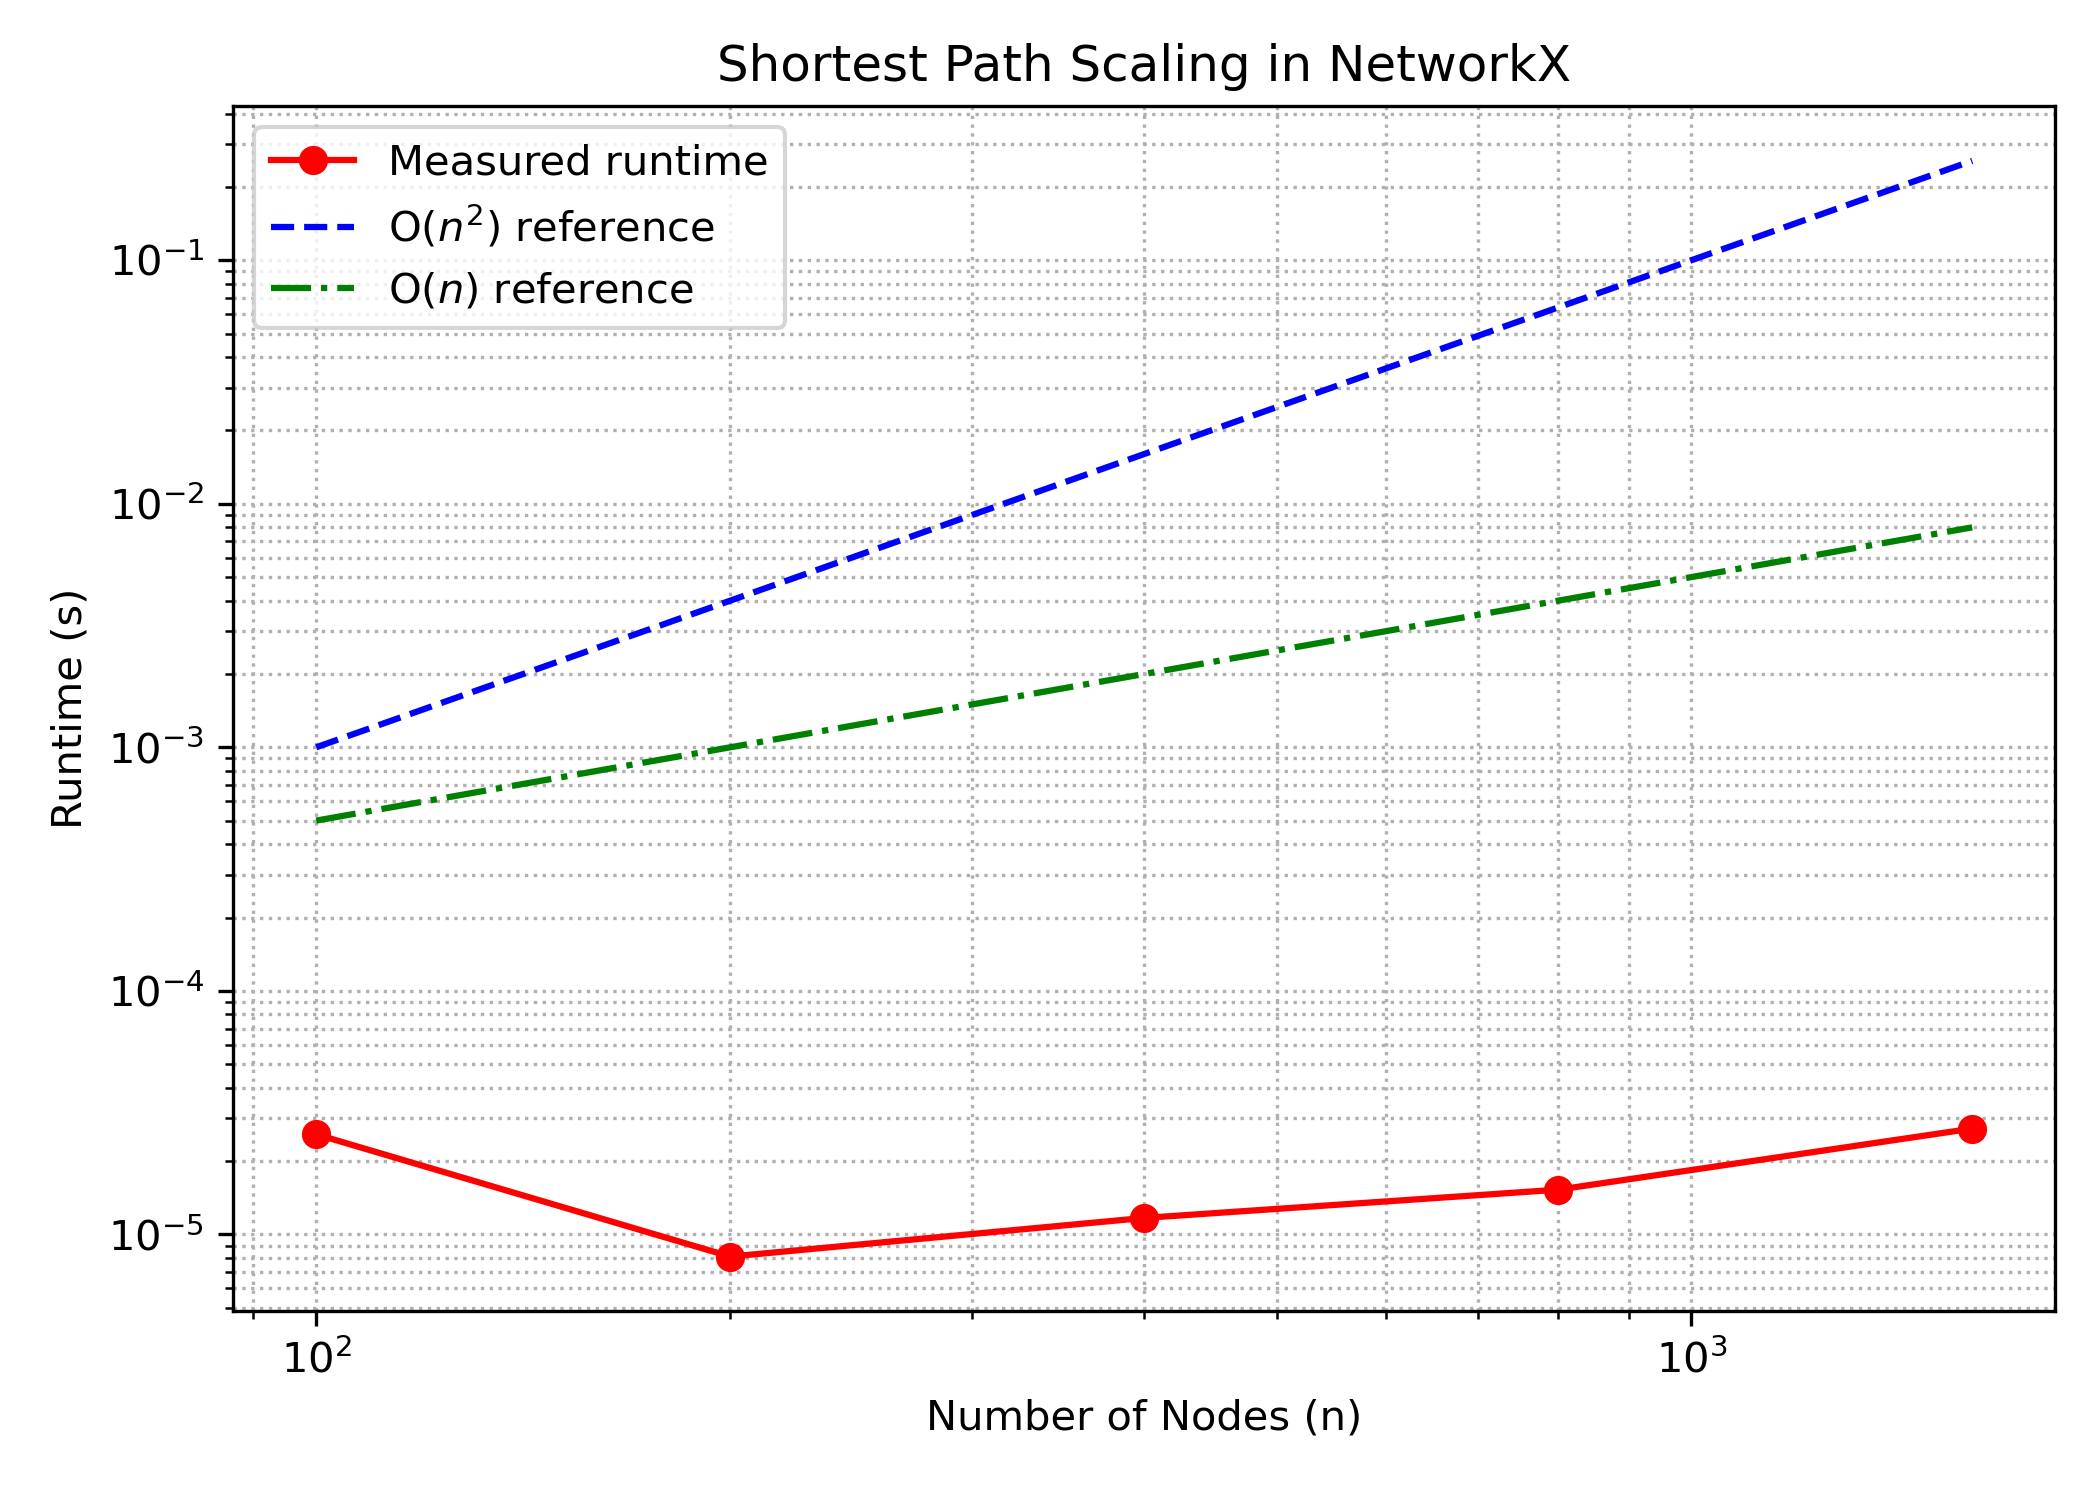
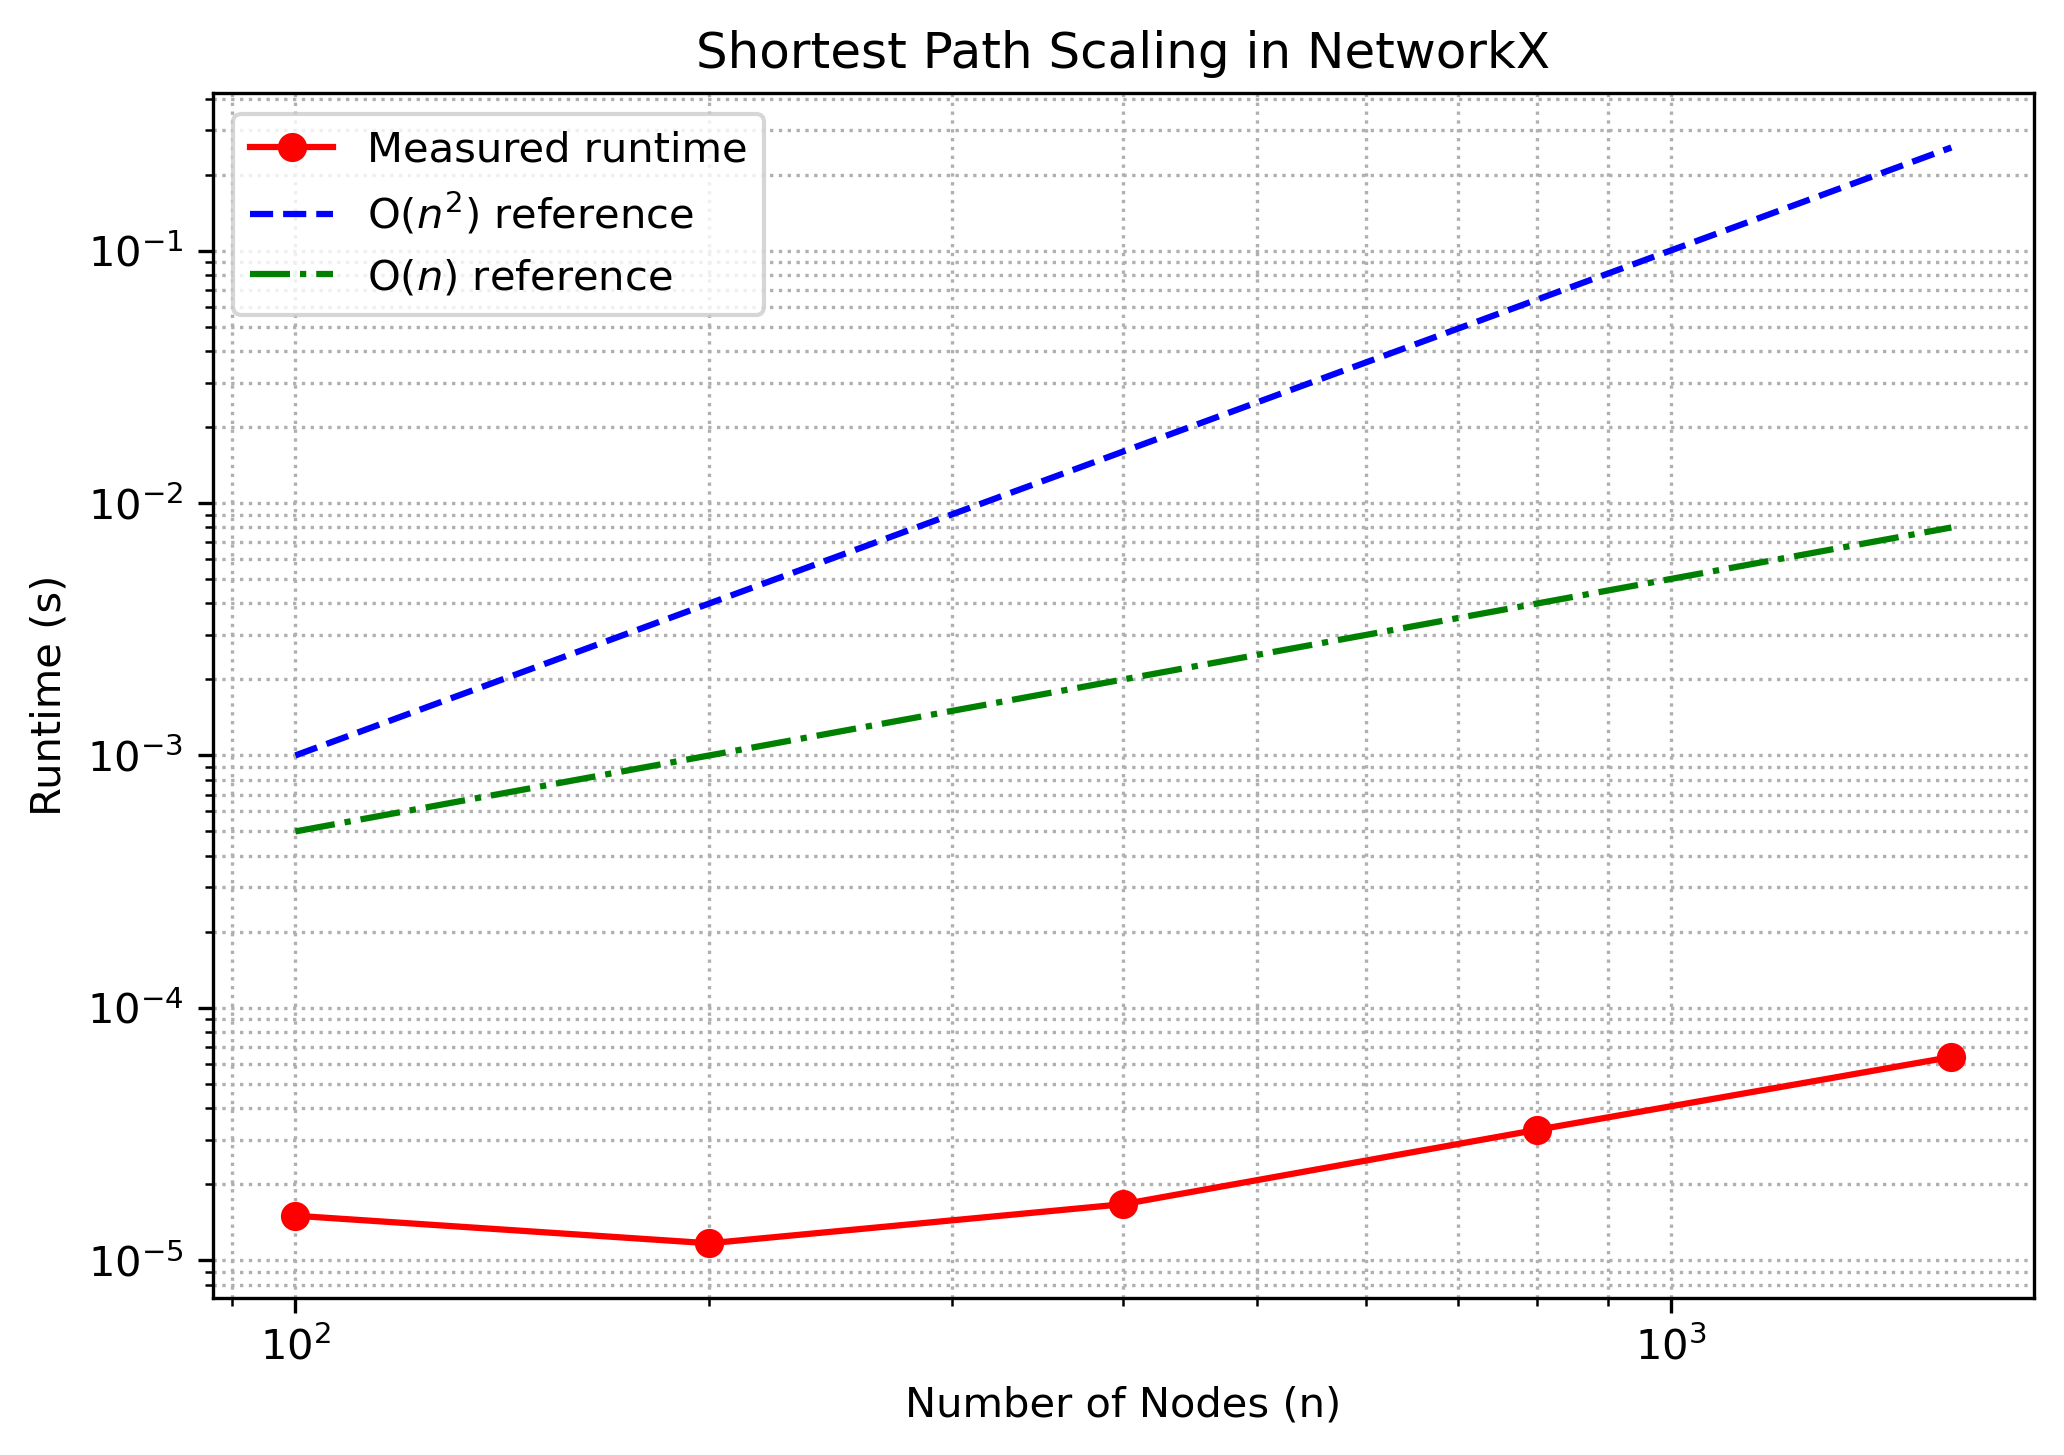
update networkx scaling demo

Changed region(s): [[0.0, 0.0, 0.9922, 0.9278], [0.4341, 0.9278, 0.6512, 0.9897]]

diff --git a/Python/graph/network_scaling_demo.py b/Python/graph/network_scaling_demo.py
@@ -2,10 +2,11 @@ import networkx as nx
 import time
 import numpy as np
 import matplotlib.pyplot as plt
+import os
 
-# ---------------------------
-# 1. Generate graphs using built-in generators
-# ---------------------------
+# ------------------------------------------
+# 1. Graph generator
+# ------------------------------------------
 def generate_graph(n, p=0.05, generator="erdos_renyi"):
     """Return a NetworkX graph with n nodes using the chosen generator."""
     if generator == "erdos_renyi":
@@ -20,17 +21,22 @@ def generate_graph(n, p=0.05, generator="erdos_renyi"):
     else:
         raise ValueError(f"Unknown generator type: {generator}")
 
-# ---------------------------
-# 2. Benchmark function
-# ---------------------------
-def measure_shortest_path_scaling(generator="erdos_renyi", p=0.05, max_nodes=2000):
+# ------------------------------------------
+# 2. Benchmarking
+# ------------------------------------------
+def measure_shortest_path_scaling(generator="erdos_renyi", p=0.05):
     """Measure time to compute shortest path as n grows."""
     sizes = [100, 200, 400, 800, 1600]
     times = []
+    sample_graphs = []   # keep small graphs for visualization
 
     for n in sizes:
         G = generate_graph(n, p, generator)
-        source, target = 0, n - 1 if generator != "grid" else (0, (int(np.sqrt(n)) - 1, int(np.sqrt(n)) - 1))
+        if n <= 400:
+            sample_graphs.append((n, G))
+
+        source = 0
+        target = n - 1 if generator != "grid" else (0, (int(np.sqrt(n)) - 1, int(np.sqrt(n)) - 1))
 
         start = time.time()
         try:
@@ -43,31 +49,66 @@ def measure_shortest_path_scaling(generator="erdos_renyi", p=0.05, max_nodes=200
         times.append(t)
         print(f"n={n:4d}  time={t:8.6f} s")
 
-    return np.array(sizes), np.array(times)
+    return np.array(sizes), np.array(times), sample_graphs
 
-# ---------------------------
-# 3. Plot scaling
-# ---------------------------
+# ------------------------------------------
+# 3. Plot scaling and save PNG
+# ------------------------------------------
 def plot_scaling(sizes, times):
-    """Plot runtime scaling vs. theoretical O(n^2)."""
-    plt.figure(figsize=(7, 5))
-    plt.loglog(sizes, times, 'ro-', label='Measured runtime')
-    plt.loglog(sizes, 1e-7 * sizes**2, 'b--', label=r'O($n^2$) reference')
-    plt.loglog(sizes, 5e-6 * sizes, 'g-.', label=r'O($n$) reference')
-    plt.xlabel('Number of Nodes (n)')
-    plt.ylabel('Runtime (s)')
-    plt.title('Shortest Path Scaling in NetworkX')
-    plt.legend()
-    plt.grid(True, which="both", ls=":")
-    plt.tight_layout()
-    plt.savefig("networkx_scaling.png", dpi=300)
-    print("Plot saved to networkx_scaling.png")
+    """Plot runtime scaling vs. theoretical O(n²) and O(n)."""
+    fig, ax = plt.subplots(figsize=(7, 5))
+    ax.loglog(sizes, times, 'ro-', label='Measured runtime')
+    ax.loglog(sizes, 1e-7 * sizes**2, 'b--', label=r'O($n^2$) reference')
+    ax.loglog(sizes, 5e-6 * sizes, 'g-.', label=r'O($n$) reference')
+    ax.set_xlabel('Number of Nodes (n)')
+    ax.set_ylabel('Runtime (s)')
+    ax.set_title('Shortest Path Scaling in NetworkX')
+    ax.legend()
+    ax.grid(True, which="both", ls=":")
+    fig.tight_layout()
+
+    filename = "networkx_scaling.png"
+    fig.savefig(filename, dpi=300, bbox_inches="tight")
+    if os.path.exists(filename):
+        print(f"Scaling plot saved to {filename}")
+    else:
+        print("Warning: PNG save failed!")
+
     plt.show()
 
-# ---------------------------
-# 4. Main script
-# ---------------------------
+# ------------------------------------------
+# 4. Plot example graphs and save PNG
+# ------------------------------------------
+def plot_example_graphs(sample_graphs, generator):
+    """Show representative graphs for visualization."""
+    fig, axes = plt.subplots(1, len(sample_graphs), figsize=(15, 4))
+    if len(sample_graphs) == 1:
+        axes = [axes]  # handle single graph case
+
+    for ax, (n, G) in zip(axes, sample_graphs):
+        pos = nx.spring_layout(G, seed=0)
+        nx.draw(G, pos, node_color='skyblue', edge_color='gray',
+                node_size=100, with_labels=False, ax=ax)
+        ax.set_title(f"{generator}\n(n={n})")
+        ax.axis('off')
+
+    plt.suptitle(f"Example Graphs from {generator} Generator", fontsize=14)
+    plt.tight_layout()
+
+    filename = f"{generator}_examples.png"
+    fig.savefig(filename, dpi=300, bbox_inches="tight")
+    if os.path.exists(filename):
+        print(f"Example graphs saved to {filename}")
+    else:
+        print("Warning: PNG save failed!")
+
+    plt.show()
+
+# ------------------------------------------
+# 5. Main
+# ------------------------------------------
 if __name__ == "__main__":
-    generator_type = "erdos_renyi"   # Try: "barabasi_albert", "watts_strogatz", "grid"
-    sizes, times = measure_shortest_path_scaling(generator=generator_type)
+    generator_type = "barabasi_albert"  # try "erdos_renyi", "watts_strogatz", or "grid"
+    sizes, times, sample_graphs = measure_shortest_path_scaling(generator=generator_type)
     plot_scaling(sizes, times)
+    plot_example_graphs(sample_graphs, generator_type)
